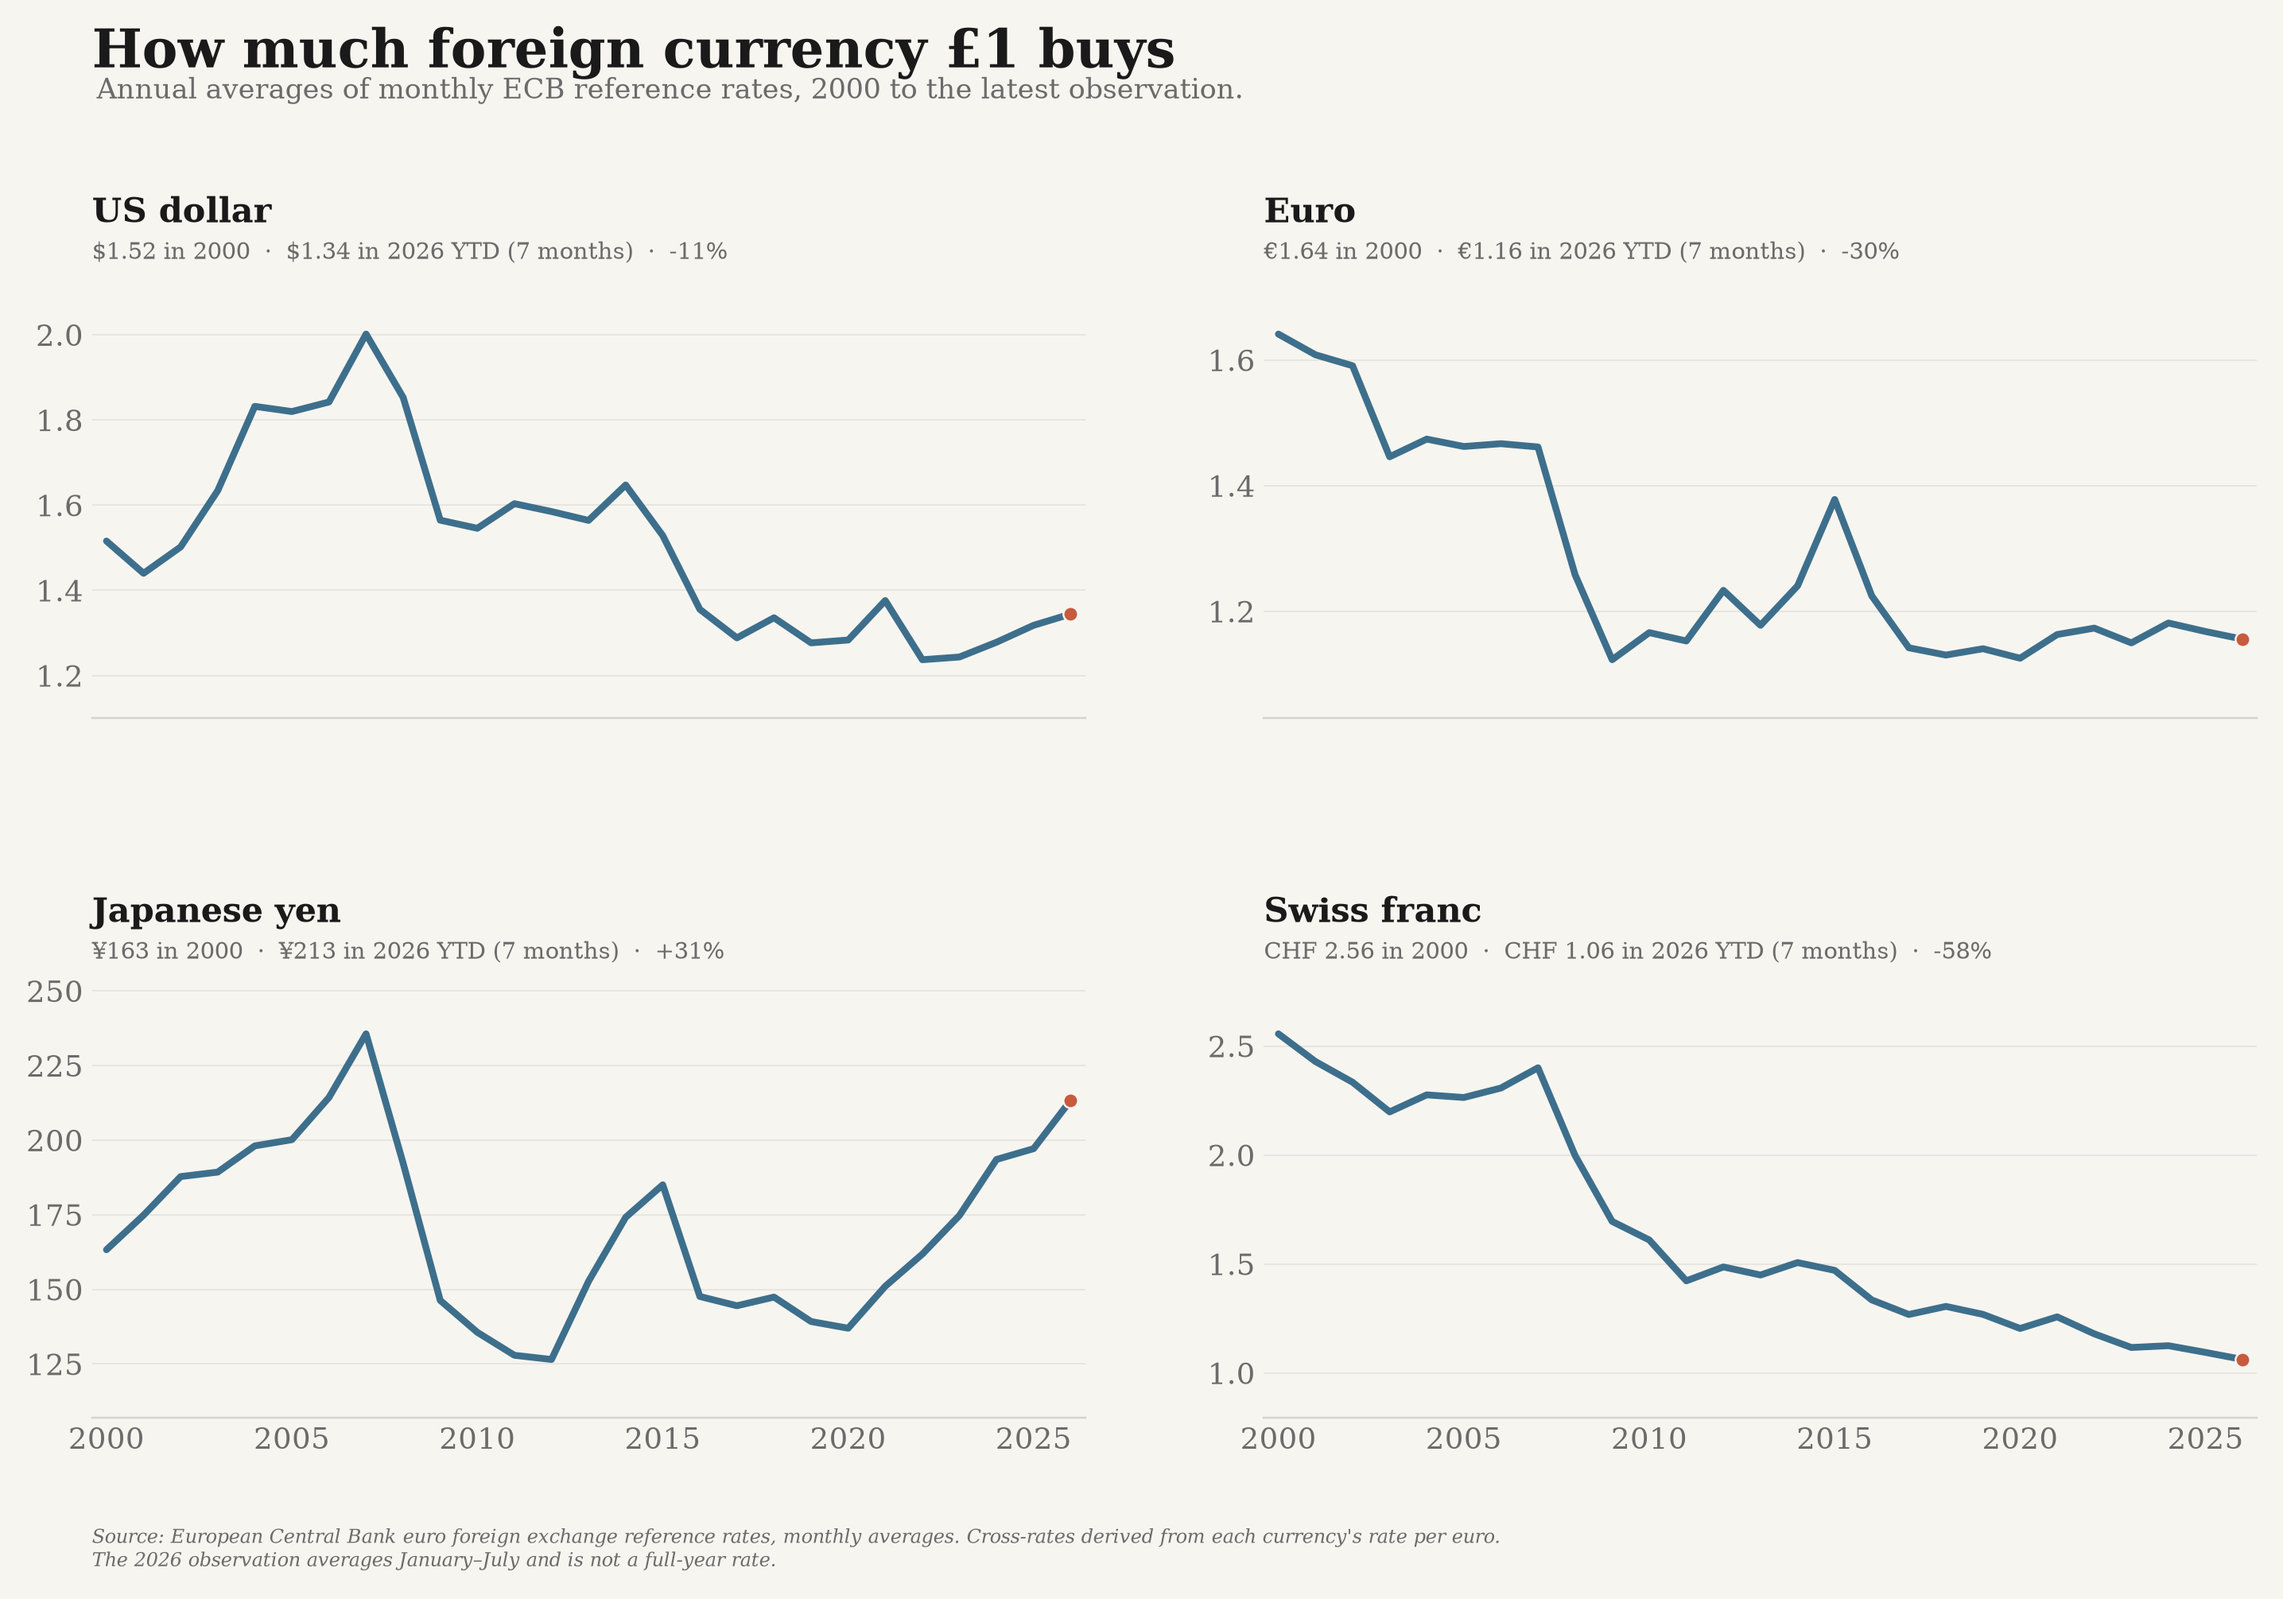
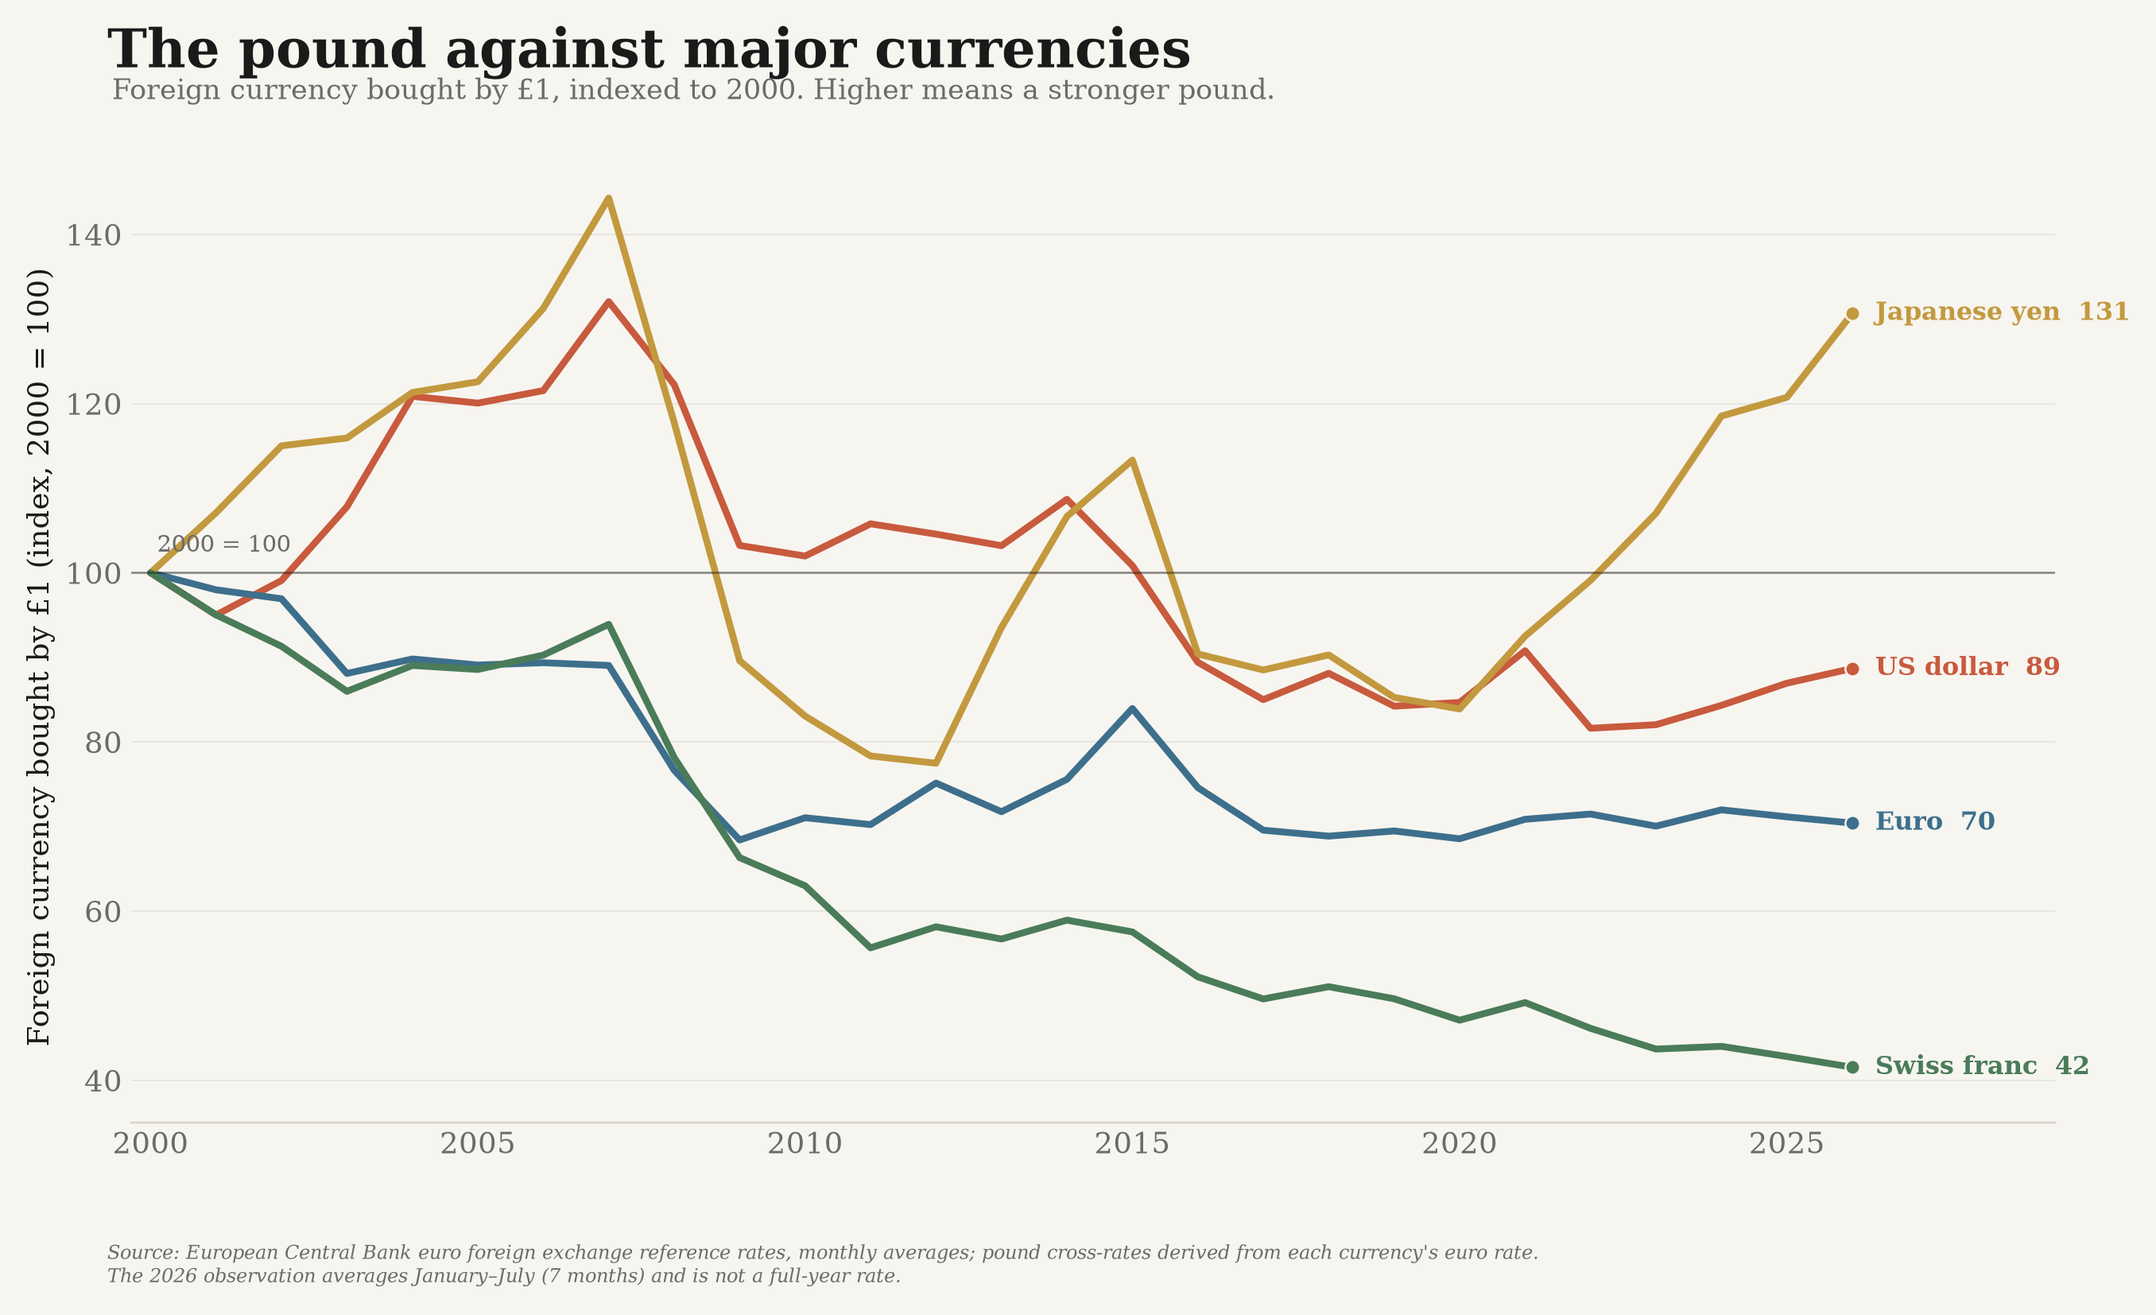
new plots for crime, food bansk, and austerity

diff --git a/sterling_data/charts.py b/sterling_data/charts.py
@@ -1,22 +1,23 @@
-"""Understated small-multiple chart of sterling's bilateral exchange rates."""
+"""Single indexed chart comparing sterling against major currencies."""
 
 from __future__ import annotations
 
 from pathlib import Path
 
 import matplotlib.pyplot as plt
+import matplotlib.ticker as mtick
 import pandas as pd
 
-from vizstyle import ACCENT, BG, BLUE, MUTED, TEXT, house_style, source_note
+from vizstyle import ACCENT, BG, BLUE, GOLD, GREEN, MUTED, TEXT, house_style, source_note
 
 ROOT = Path(__file__).resolve().parent.parent
 DEFAULT_OUTPUT = ROOT / "outputs" / "sterling" / "sterling_exchange_rates.png"
 
-PANELS = {
-    "USD": ("US dollar", "$", 2),
-    "EUR": ("Euro", "€", 2),
-    "JPY": ("Japanese yen", "¥", 0),
-    "CHF": ("Swiss franc", "CHF ", 2),
+SERIES = {
+    "USD": ("US dollar", ACCENT),
+    "EUR": ("Euro", BLUE),
+    "JPY": ("Japanese yen", GOLD),
+    "CHF": ("Swiss franc", GREEN),
 }
 
 
@@ -24,96 +25,89 @@ def _load(source) -> pd.DataFrame:
     return source.copy() if hasattr(source, "columns") else pd.read_csv(source)
 
 
-def _format_value(currency: str, value: float) -> str:
-    _label, prefix, decimals = PANELS[currency]
-    return f"{prefix}{value:,.{decimals}f}"
+def index_to_year(frame: pd.DataFrame, base_year: int = 2000) -> pd.DataFrame:
+    """Index each currency's exchange rate to ``base_year = 100``."""
+    indexed = frame.copy()
+    bases = (
+        indexed[indexed["year"] == base_year]
+        .set_index("currency")["value"]
+        .to_dict()
+    )
+    missing = set(SERIES) - set(bases)
+    if missing:
+        raise ValueError(f"missing {base_year} observations for {sorted(missing)}")
+    indexed["index"] = indexed.apply(
+        lambda row: float(row["value"]) / float(bases[row["currency"]]) * 100,
+        axis=1,
+    )
+    return indexed
 
 
 def make_chart(source, output: Path | str = DEFAULT_OUTPUT) -> Path:
-    """Render four uncluttered panels showing how much currency £1 buys."""
-    frame = _load(source)
+    """Render all currencies on one comparable 2000=100 scale."""
+    frame = index_to_year(_load(source))
     house_style()
 
-    fig, axes = plt.subplots(
-        2,
-        2,
-        figsize=(13.6, 9.2),
-        sharex=True,
-        gridspec_kw={"hspace": 0.58, "wspace": 0.18},
-    )
+    fig, ax = plt.subplots(figsize=(13.5, 7.6))
     latest_year = int(frame["year"].max())
-    latest_status = frame.loc[frame["year"] == latest_year, "period_status"].iloc[0]
-    latest_months = int(frame.loc[frame["year"] == latest_year, "months"].iloc[0])
-    latest_label = (
-        f"{latest_year} YTD ({latest_months} months)"
-        if latest_status == "year_to_date"
-        else str(latest_year)
-    )
+    latest = frame[frame["year"] == latest_year]
+    latest_months = int(latest["months"].iloc[0])
 
-    for ax, currency in zip(axes.flat, PANELS):
+    for currency, (label, color) in SERIES.items():
         sub = frame[frame["currency"] == currency].sort_values("year")
-        first = sub.iloc[0]
-        latest = sub.iloc[-1]
-        change = (latest["value"] / first["value"] - 1) * 100
-
+        last = sub.iloc[-1]
         ax.plot(
             sub["year"],
-            sub["value"],
-            color=BLUE,
+            sub["index"],
+            color=color,
             linewidth=2.8,
             solid_capstyle="round",
         )
         ax.scatter(
-            [latest["year"]],
-            [latest["value"]],
+            [last["year"]],
+            [last["index"]],
             s=36,
-            color=ACCENT,
+            color=color,
             edgecolor=BG,
             linewidth=0.8,
             zorder=5,
         )
-        ax.set_title(
-            PANELS[currency][0],
-            loc="left",
-            fontsize=14,
-            fontweight="bold",
-            color=TEXT,
-            y=1.12,
-            pad=0,
-        )
         ax.text(
-            0,
-            1.025,
-            (
-                f"{_format_value(currency, first['value'])} in 2000  ·  "
-                f"{_format_value(currency, latest['value'])} in {latest_label}  ·  "
-                f"{change:+.0f}%"
-            ),
-            transform=ax.transAxes,
+            float(last["year"]) + 0.35,
+            float(last["index"]),
+            f"{label}  {last['index']:.0f}",
+            color=color,
+            fontsize=10.5,
+            fontweight="bold",
+            va="center",
             ha="left",
-            va="bottom",
-            fontsize=9.4,
-            color=MUTED,
         )
-        ax.grid(axis="y")
-        ax.set_axisbelow(True)
-        ax.spines["left"].set_visible(False)
-        ax.margins(x=0.015, y=0.18)
-        ax.set_xticks([2000, 2005, 2010, 2015, 2020, 2025])
+
+    ax.axhline(100, color=TEXT, linewidth=0.9, alpha=0.45)
+    ax.text(2000.1, 102.5, "2000 = 100", color=MUTED, fontsize=9.5)
+    ax.set_xlim(1999.7, latest_year + 3.1)
+    ax.set_ylim(35, 145)
+    ax.set_xticks([2000, 2005, 2010, 2015, 2020, 2025])
+    ax.set_yticks([40, 60, 80, 100, 120, 140])
+    ax.yaxis.set_major_formatter(mtick.FormatStrFormatter("%.0f"))
+    ax.set_ylabel("Foreign currency bought by £1 (index, 2000 = 100)")
+    ax.grid(axis="y")
+    ax.set_axisbelow(True)
+    ax.spines["left"].set_visible(False)
 
     fig.suptitle(
-        "How much foreign currency £1 buys",
-        x=0.06,
-        y=0.975,
+        "The pound against major currencies",
+        x=0.065,
+        y=0.965,
         ha="left",
         fontsize=22,
         fontweight="bold",
         color=TEXT,
     )
     fig.text(
-        0.062,
-        0.93,
-        "Annual averages of monthly ECB reference rates, 2000 to the latest observation.",
+        0.067,
+        0.91,
+        "Foreign currency bought by £1, indexed to 2000. Higher means a stronger pound.",
         ha="left",
         fontsize=11.5,
         color=MUTED,
@@ -121,12 +115,13 @@ def make_chart(source, output: Path | str = DEFAULT_OUTPUT) -> Path:
     source_note(
         fig,
         "Source: European Central Bank euro foreign exchange reference rates, "
-        f"monthly averages. Cross-rates derived from each currency's rate per euro.\n"
-        f"The {latest_year} observation averages January–July and is not a full-year rate.",
-        x=0.06,
-        y=0.018,
+        "monthly averages; pound cross-rates derived from each currency's euro rate.\n"
+        f"The {latest_year} observation averages January–July ({latest_months} months) "
+        "and is not a full-year rate.",
+        x=0.065,
+        y=0.02,
     )
-    fig.subplots_adjust(left=0.06, right=0.97, top=0.82, bottom=0.11)
+    fig.subplots_adjust(left=0.075, right=0.89, top=0.84, bottom=0.14)
 
     output = Path(output)
     output.parent.mkdir(parents=True, exist_ok=True)

diff --git a/tests/test_sterling.py b/tests/test_sterling.py
@@ -73,3 +73,14 @@ def test_chart_renders(tmp_path) -> None:
     output = charts.make_chart(frame, tmp_path / "sterling.png")
     assert output.exists()
     assert output.stat().st_size > 20_000
+
+
+def test_index_to_2000() -> None:
+    frame = ecb.build_annual(_monthly())
+    indexed = charts.index_to_year(frame)
+    base = indexed[indexed["year"] == 2000]
+    assert base["index"].tolist() == pytest.approx([100, 100, 100, 100])
+    usd_2001 = indexed[
+        (indexed["year"] == 2001) & (indexed["currency"] == "USD")
+    ].iloc[0]
+    assert usd_2001["index"] == pytest.approx((1.5 / 2.1) * 100)

diff --git a/sterling_data/README.md b/sterling_data/README.md
@@ -2,12 +2,12 @@
 
 ![Sterling exchange rates](../outputs/sterling/sterling_exchange_rates.png)
 
-This analysis shows how much foreign currency **£1 buys** against the US dollar, euro,
-Japanese yen, and Swiss franc from 2000 through the latest available month.
+This analysis compares how much foreign currency **£1 buys** against the US dollar,
+euro, Japanese yen, and Swiss franc from 2000 through the latest available month.
 
-The panels use actual exchange-rate units rather than an index, so each can be read
-directly: for example, `$1.30` means one pound buys 1.30 US dollars. The header on each
-panel also reports the percentage change since 2000.
+All four currencies are shown on one comparable scale, indexed to **2000 = 100**.
+Values above 100 mean the pound buys more of that currency than in 2000; values below
+100 mean it buys less.
 
 ## Source and method
 
@@ -34,4 +34,3 @@ is explicitly labelled year-to-date because the API currently runs through July.
 ./.venv/bin/python -m sterling_data --from-csv data/sterling_exchange_rates.csv
 ./.venv/bin/pytest tests/test_sterling.py -q
 ```
-

diff --git a/README.md b/README.md
@@ -68,9 +68,9 @@ banks. *Source: Trussell end-of-year statistics and official 2025 parcel workboo
 
 ### Sterling — how much foreign currency one pound buys
 ![Sterling exchange rates](outputs/sterling/sterling_exchange_rates.png)
-The pound's path is not identical against every currency. This chart shows actual
-annual-average dollars, euros, yen, and Swiss francs bought by **£1**, from 2000 through
-the latest 2026 observation. *Source: European Central Bank reference exchange rates.*
+The pound's path is not identical against every currency. The chart places dollars,
+euros, yen, and Swiss francs bought by **£1** on one comparable **2000 = 100** scale,
+through the latest 2026 observation. *Source: European Central Bank reference exchange rates.*
 
 ### NHS — waiting lists have ballooned, and per-head the smaller nations fare worst
 ![NHS RTT waiting list per 1,000 people](outputs/nhs/rtt_waiting_list_per_1000.png)
